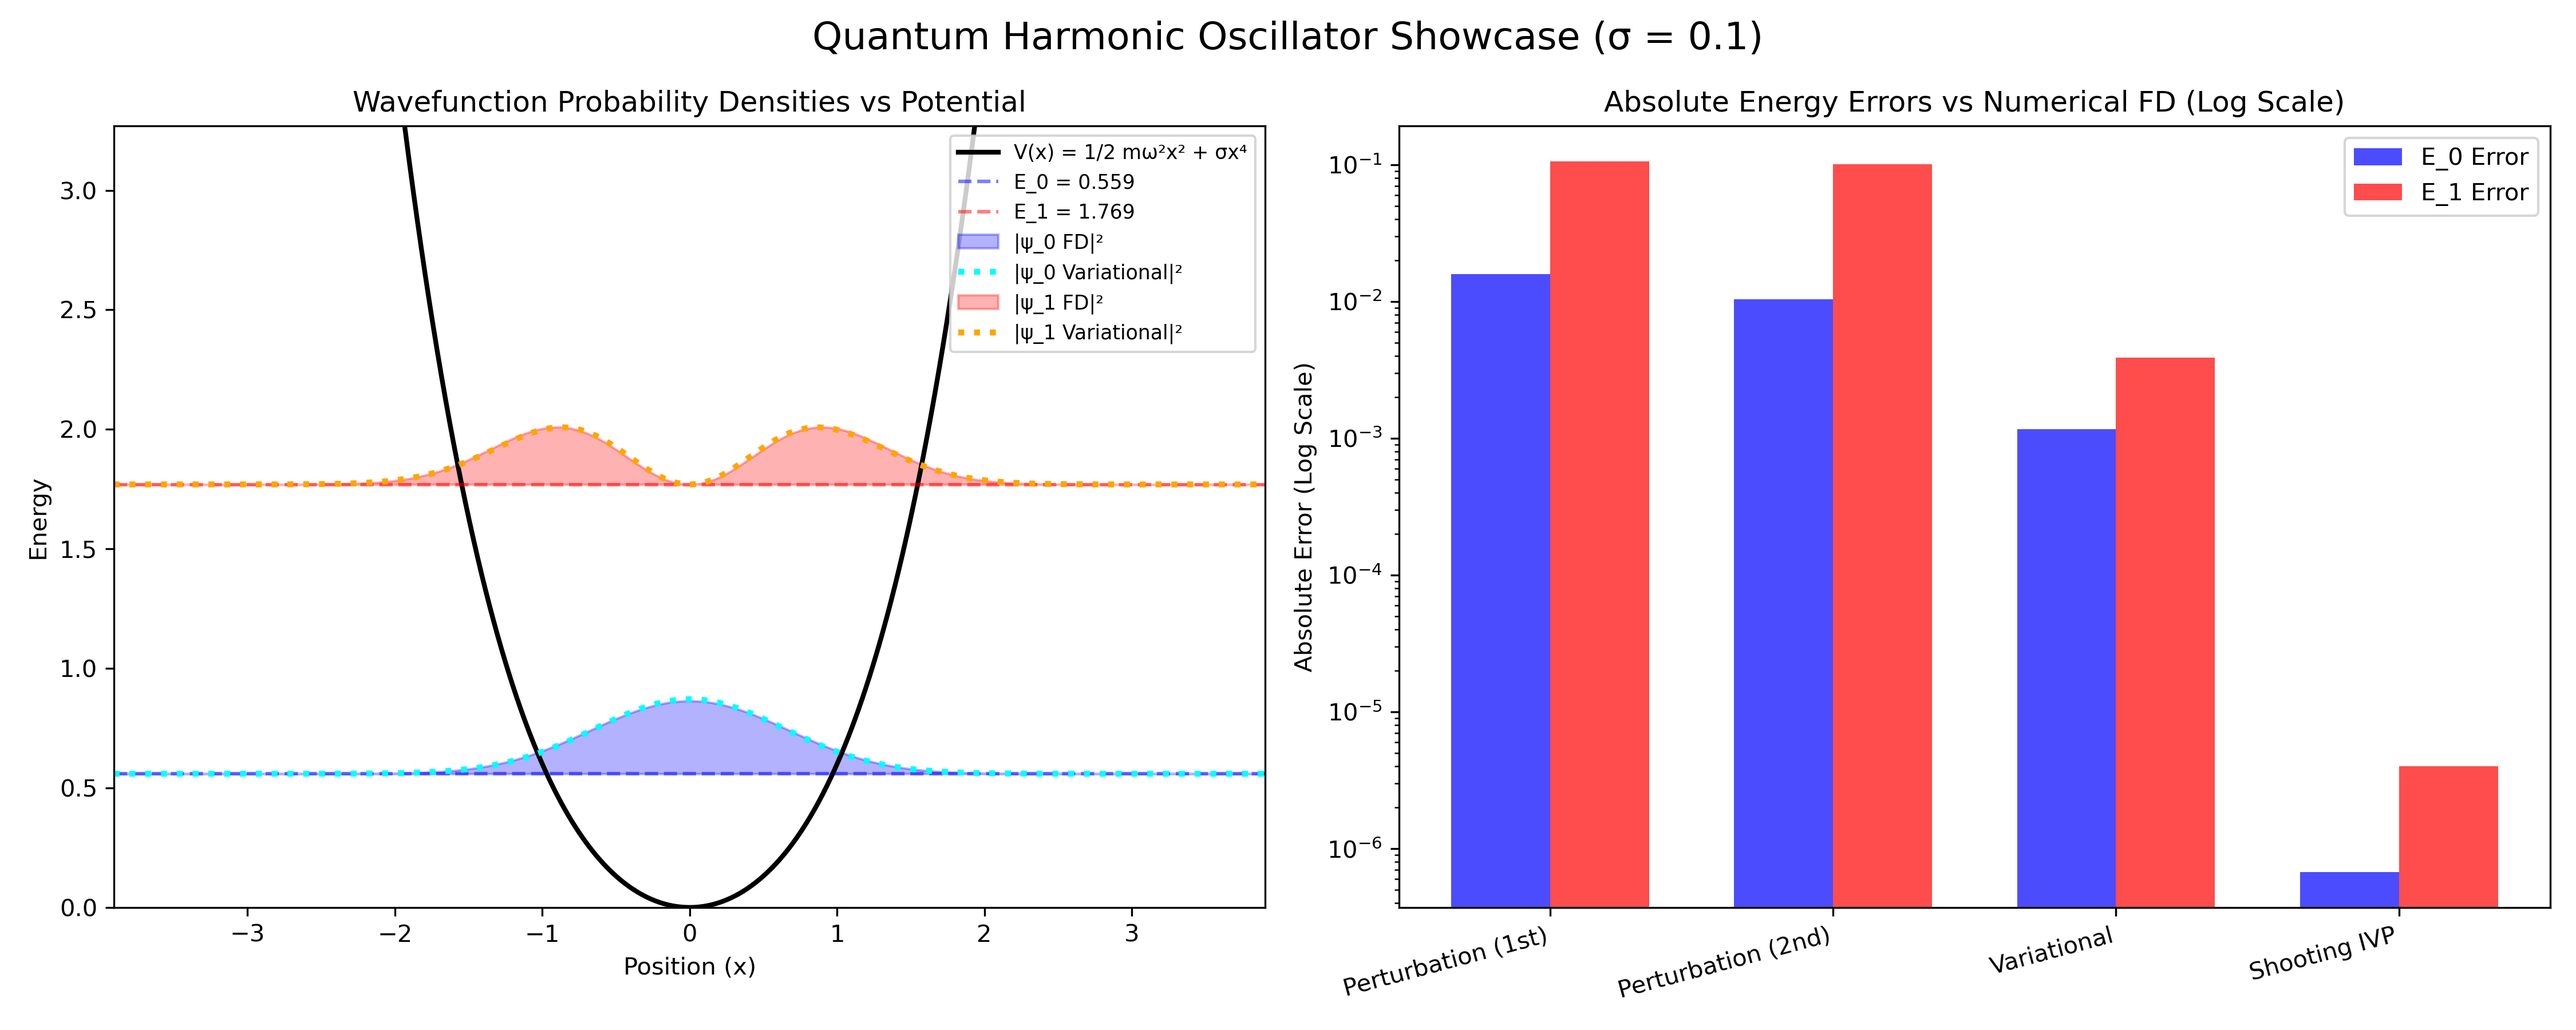
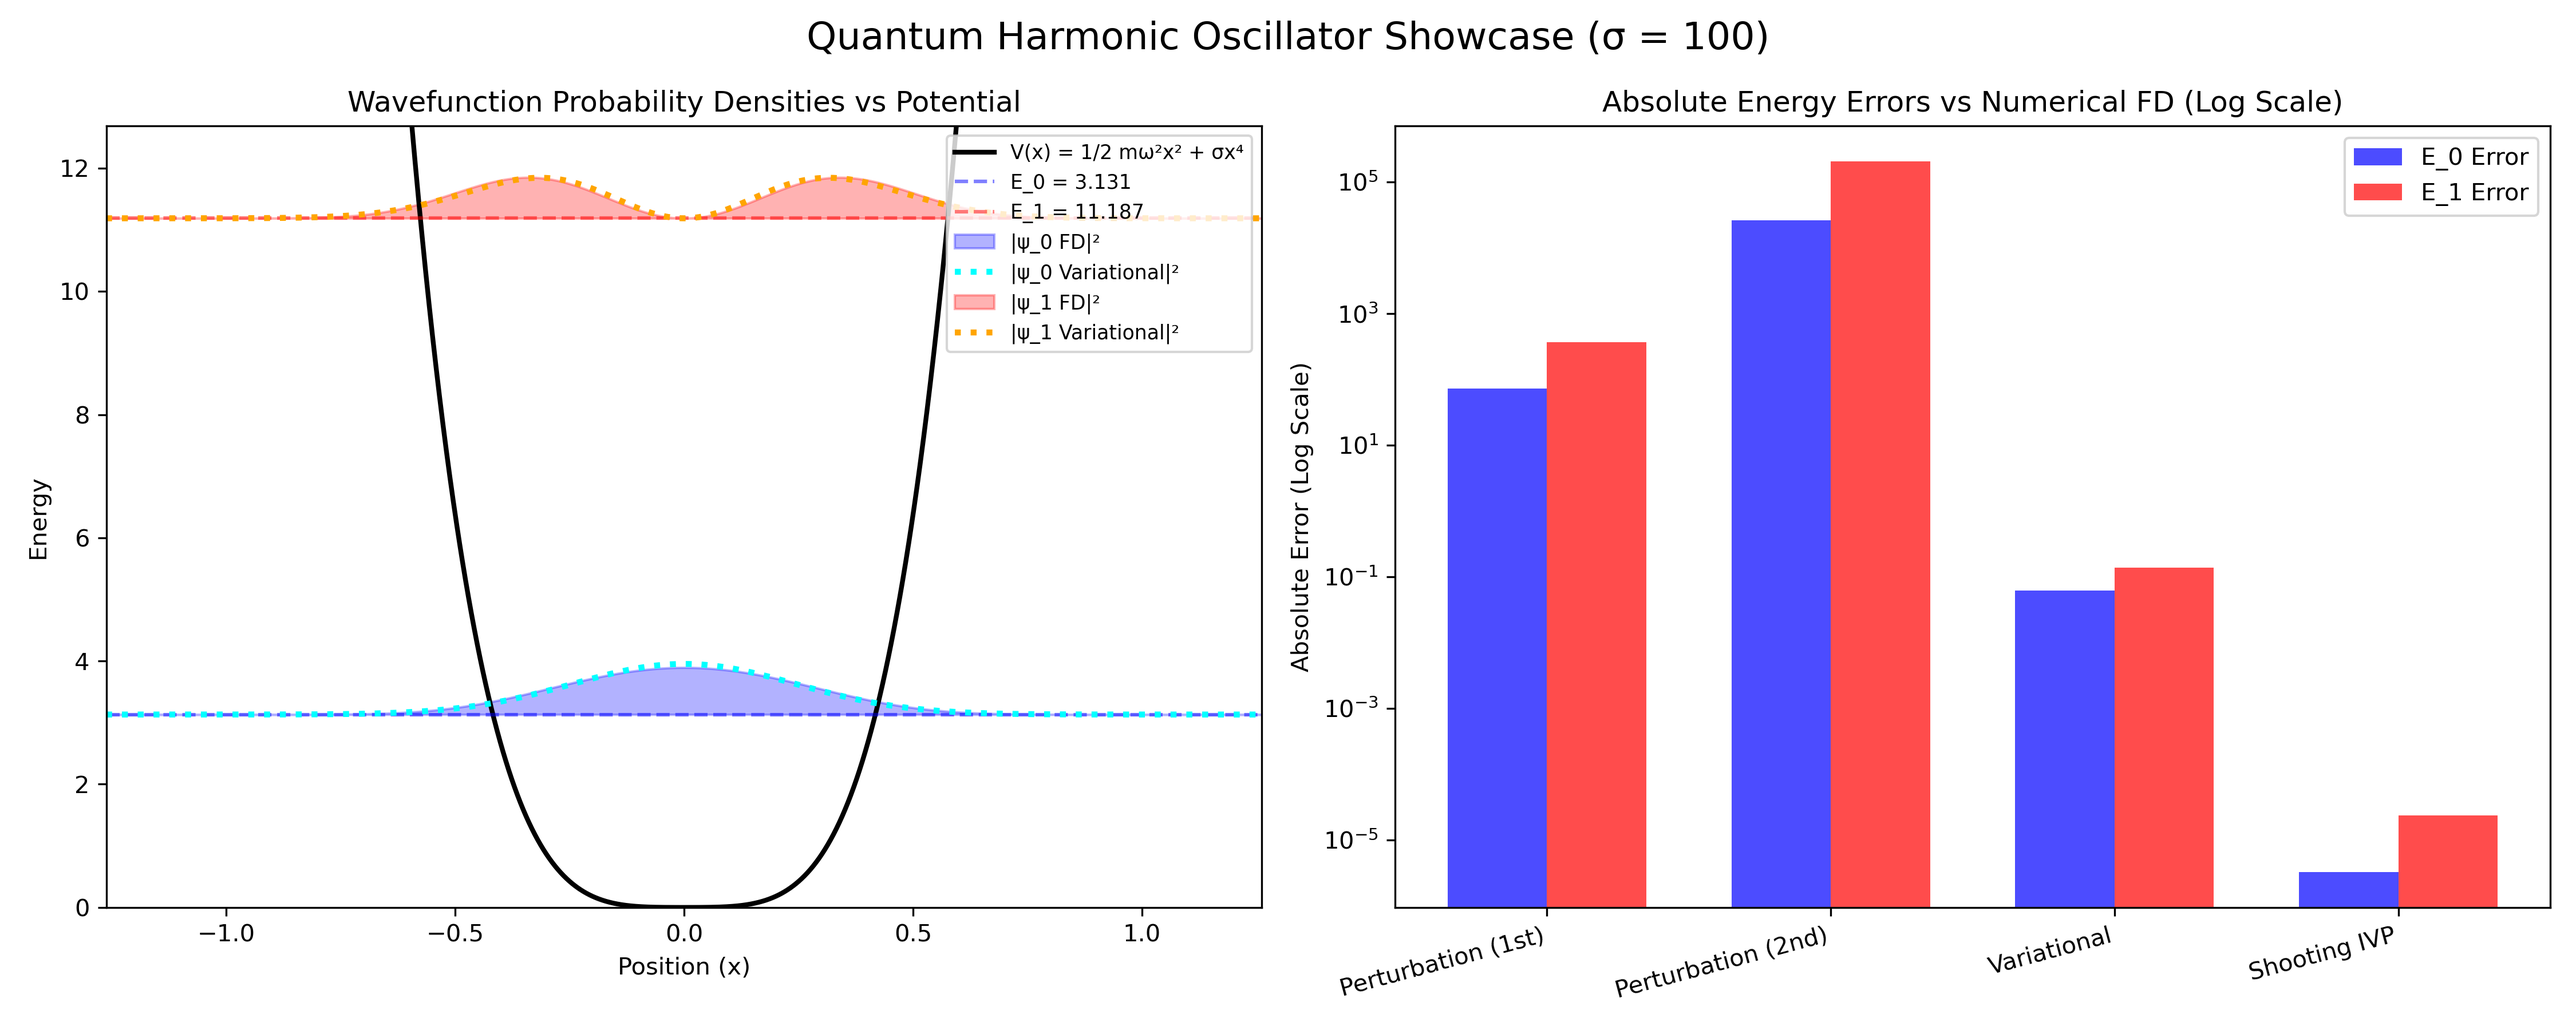
Refactor quantum harmonic oscillator calculations and update numerical results

diff --git a/code/qho/qho_osc.py b/code/qho/qho_osc.py
@@ -1,14 +1,16 @@
+import math
 import numpy as np
-from scipy.optimize import minimize_scalar, root_scalar
-from scipy.integrate import solve_ivp
+from scipy.optimize import minimize, root_scalar
+from scipy.integrate import solve_ivp, simpson, quad
 from scipy.linalg import eigh_tridiagonal
+from scipy.special import eval_hermite
 
 # --- System Parameters ---
 # Feel free to change m, omega, and sigma to test different scenarios
 HBAR = 1.0
 M = 1.0
 OMEGA = 1.0
-SIGMA = 0.1
+SIGMA = 100
 
 
 def run_comparisons():
@@ -16,49 +18,114 @@ def run_comparisons():
     print(f"Parameters: m={M}, omega={OMEGA}, hbar={HBAR}\n")
 
     # ==========================================
-    # 1. PERTURBATION THEORY
+    # 1. PERTURBATION THEORY (GENERALIZED)
     # ==========================================
-    # E_n^(0) = hbar * omega * (n + 0.5)
-    # E_n^(1) = 3 * sigma * hbar^2 / (4 * m^2 * omega^2) * (2n^2 + 2n + 1)
-    # E_n^(2) = - (sigma^2 * hbar^3) / (8 * m^4 * omega^5) * (34n^3 + 51n^2 + 59n + 21)
+    # We numerically derive the corrections using integrals over unperturbed eigenstates.
+    # E_n^(1) = <n| V' |n>
+    # E_n^(2) = sum_{k != n} |<k| V' |n>|^2 / (E_n^(0) - E_k^(0))
 
-    def calc_pert_energy(n):
+    def unperturbed_state(n, x_val):
+        alpha = np.sqrt(M * OMEGA / HBAR)
+        xi = alpha * x_val
+        norm = np.sqrt(alpha / (math.sqrt(np.pi) * 2**n * math.factorial(n)))
+        return norm * np.exp(-0.5 * xi**2) * eval_hermite(n, xi)
+
+    def calc_pert_energy(n, v_pert_func, max_states=10):
         e_0 = HBAR * OMEGA * (n + 0.5)
-        e_1 = (3 * SIGMA * HBAR**2) / (4 * M**2 * OMEGA**2) * (2 * n**2 + 2 * n + 1)
-        e_2 = (
-            -(SIGMA**2 * HBAR**3)
-            / (8 * M**4 * OMEGA**5)
-            * (34 * n**3 + 51 * n**2 + 59 * n + 21)
-        )
+
+        # Dynamically scale integration limits based on the wavefunction's width (20 std deviations)
+        limit = 20.0 * np.sqrt(HBAR / (M * OMEGA))
+
+        # 1st order correction
+        def integrand_1st(x_val):
+            psi = unperturbed_state(n, x_val)
+            return psi**2 * v_pert_func(x_val)
+
+        e_1, _ = quad(integrand_1st, -limit, limit)
+
+        # 2nd order correction
+        e_2 = 0.0
+        for k in range(max_states):
+            if k == n:
+                continue
+
+            def integrand_2nd(x_val):
+                return (
+                    unperturbed_state(k, x_val)
+                    * v_pert_func(x_val)
+                    * unperturbed_state(n, x_val)
+                )
+
+            h_kn, _ = quad(integrand_2nd, -limit, limit)
+
+            # Add to 2nd order sum if the matrix element is non-zero
+            if abs(h_kn) > 1e-10:
+                e_k = HBAR * OMEGA * (k + 0.5)
+                e_2 += (h_kn**2) / (e_0 - e_k)
+
         return e_0 + e_1, e_0 + e_1 + e_2
 
-    e0_pert_1st, e0_pert_2nd = calc_pert_energy(0)
-    e1_pert_1st, e1_pert_2nd = calc_pert_energy(1)
+    # Evaluate generalized perturbation using V' = sigma * x^4
+    v_pert = lambda x_val: SIGMA * x_val**4
+    e0_pert_1st, e0_pert_2nd = calc_pert_energy(0, v_pert)
+    e1_pert_1st, e1_pert_2nd = calc_pert_energy(1, v_pert)
 
     # ==========================================
-    # 2. VARIATIONAL METHOD
+    # GRID SETUP
     # ==========================================
-    # The functions below exactly match your derived expectations
+    # Dynamically scale the spatial domain to prevent float overflow for large SIGMA.
+    # A factor of (1 + SIGMA)**0.25 scales it based on the x^4 dominance.
+    L = 8.0 / (1.0 + SIGMA) ** 0.25
+    N = 4000  # number of grid points
+    x = np.linspace(-L, L, N)
+    dx = x[1] - x[0]
 
-    def e0_var_func(alpha):
-        kin = (HBAR**2 * alpha) / (2 * M)
-        v_harm = (M * OMEGA**2) / (8 * alpha)
-        v_pert = (3 * SIGMA) / (16 * alpha**2)
-        return kin + v_harm + v_pert
+    # Potential energy terms
+    v_total = 0.5 * M * OMEGA**2 * x**2 + SIGMA * x**4
 
-    def e1_var_func(alpha):
-        kin = (3 * HBAR**2 * alpha) / (2 * M)
-        v_harm = (3 * M * OMEGA**2) / (8 * alpha)
-        v_pert = (15 * SIGMA) / (16 * alpha**2)
-        return kin + v_harm + v_pert
+    # ==========================================
+    # 2. VARIATIONAL METHOD (GENERALIZED)
+    # ==========================================
+    def compute_expectation_value(ansatz, params, x_grid, v_grid):
+        psi = ansatz(x_grid, *params)
 
-    # Minimize alpha using scipy
-    res0 = minimize_scalar(e0_var_func, bounds=(0.1, 10.0), method="bounded")
-    alpha0_opt = res0.x
+        # Compute norm: <psi|psi>
+        norm = simpson(y=psi**2, x=x_grid)
+        if norm <= 0:
+            return np.inf
+
+        # Compute potential energy: <psi|V|psi>
+        pe = simpson(y=psi**2 * v_grid, x=x_grid) / norm
+
+        # Compute kinetic energy: <psi|T|psi>
+        # Using integration by parts: (hbar^2/2m) \int (dpsi/dx)^2 dx
+        dpsi_dx = np.gradient(psi, x_grid)
+        ke = (HBAR**2 / (2 * M)) * simpson(y=dpsi_dx**2, x=x_grid) / norm
+
+        return ke + pe
+
+    # Define arbitrary ansatz functions (easily extensible to more parameters)
+    def ansatz_0(x_val, alpha):
+        return np.exp(-alpha * x_val**2)
+
+    def ansatz_1(x_val, alpha):
+        return x_val * np.exp(-alpha * x_val**2)
+
+    # Minimize parameters using scipy's general optimizer
+    res0 = minimize(
+        lambda p: compute_expectation_value(ansatz_0, p, x, v_total),
+        x0=[1.0],
+        bounds=[(0.01, 10.0)],
+    )
+    alpha0_opt = res0.x[0]
     e0_var = res0.fun
 
-    res1 = minimize_scalar(e1_var_func, bounds=(0.1, 10.0), method="bounded")
-    alpha1_opt = res1.x
+    res1 = minimize(
+        lambda p: compute_expectation_value(ansatz_1, p, x, v_total),
+        x0=[1.0],
+        bounds=[(0.01, 10.0)],
+    )
+    alpha1_opt = res1.x[0]
     e1_var = res1.fun
 
     print("--- Variational Method Results ---")
@@ -70,19 +137,9 @@ def run_comparisons():
     # ==========================================
     # Approximates the derivatives on a grid to create a sparse Hamiltonian matrix
 
-    # Dynamically scale the spatial domain to prevent float overflow for large SIGMA.
-    # A factor of (1 + SIGMA)**0.25 scales it based on the x^4 dominance.
-    L = 8.0 / (1.0 + SIGMA) ** 0.25
-    N = 4000  # number of grid points
-    x = np.linspace(-L, L, N)
-    dx = x[1] - x[0]
-
     # Kinetic energy terms
     diag_kin = HBAR**2 / (M * dx**2)
     off_diag_kin = -(HBAR**2) / (2 * M * dx**2)
-
-    # Potential energy terms
-    v_total = 0.5 * M * OMEGA**2 * x**2 + SIGMA * x**4
 
     # Construct diagonals
     main_diag = diag_kin + v_total
